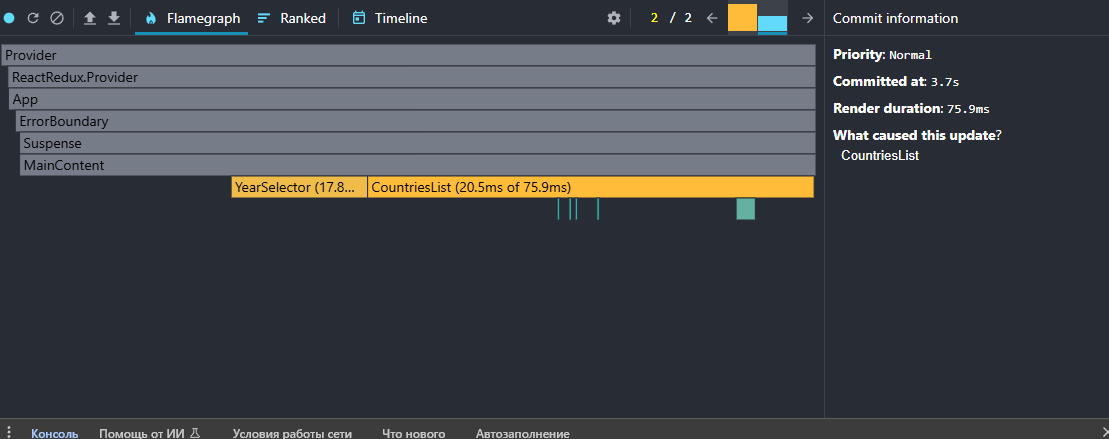
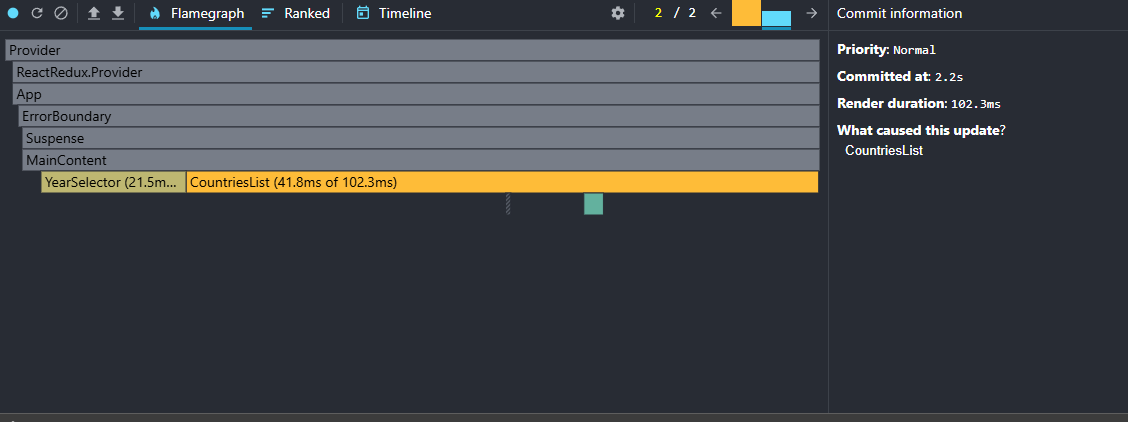
fix: update report

diff --git a/README.md b/README.md
@@ -19,7 +19,6 @@
   - [Summary](#summary)
     - [Table](#table)
 
-
 Completed as part of React Performance [task](https://github.com/rolling-scopes-school/tasks/blob/master/react/modules/tasks/performance.md#performance-profiling-task)
 
 Profiling done by using React DevTools Profiler.
@@ -328,11 +327,11 @@ Profiler not capture interactions so only Commit and Render analyzed
 
 #### Commit Duration:
 
-3.7s
+2.2s
 
 #### Render Duration:
 
-75.9ms
+102.3ms
 
 #### Interactions:
 
@@ -356,5 +355,7 @@ Profiler not capture interactions so only Commit and Render analyzed
 | Filtering by region     | 0.2s                     | 1.7s                    | 110.4ms                  | 20.3ms                  |
 | Sorting by population   | 0.5s                     | 1.0s                    | 327.2ms                  | 20.3ms                  |
 | Sorting by country name | 0.9s                     | 0.9s                    | 320.7ms                  | 20.3ms                  |
-| Searching countries     | 0.8s                     | 1.8s                    | 420.3ms                  | 71.6ms                  |
-| Add new column          | 2.2s                     | 3.7s                    | 65.5ms                   | 75.9ms                  |
+| Searching countries     | 0.8s                     | 1.8s                    | 420.3ms                  | 187.9ms                 |
+| Add new column          | 2.2s                     | 2.2s                    | 65.5ms                   | 102.3ms                 |
+
+On screen photo you cuold se that the number of rerender was reduced
